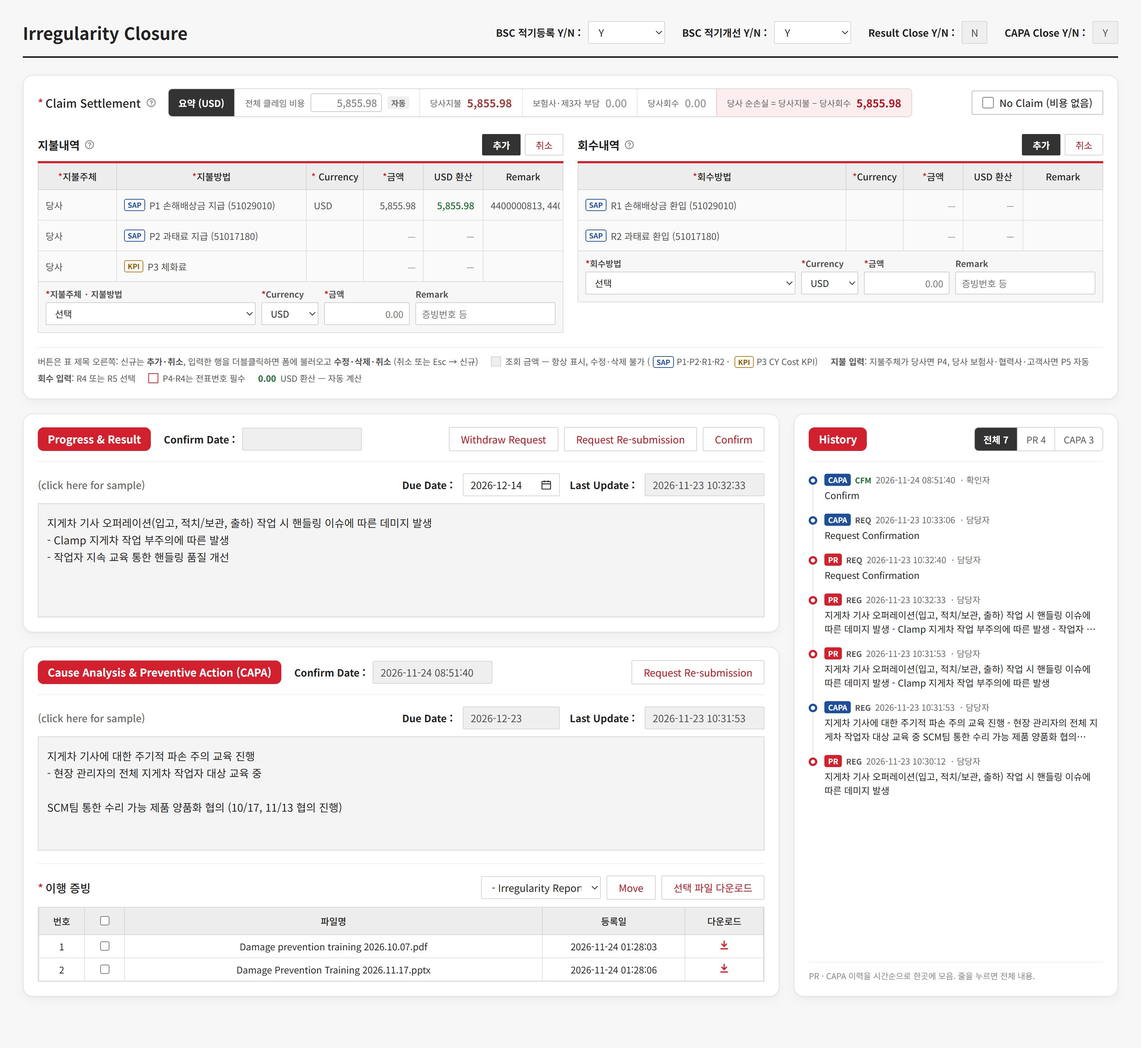
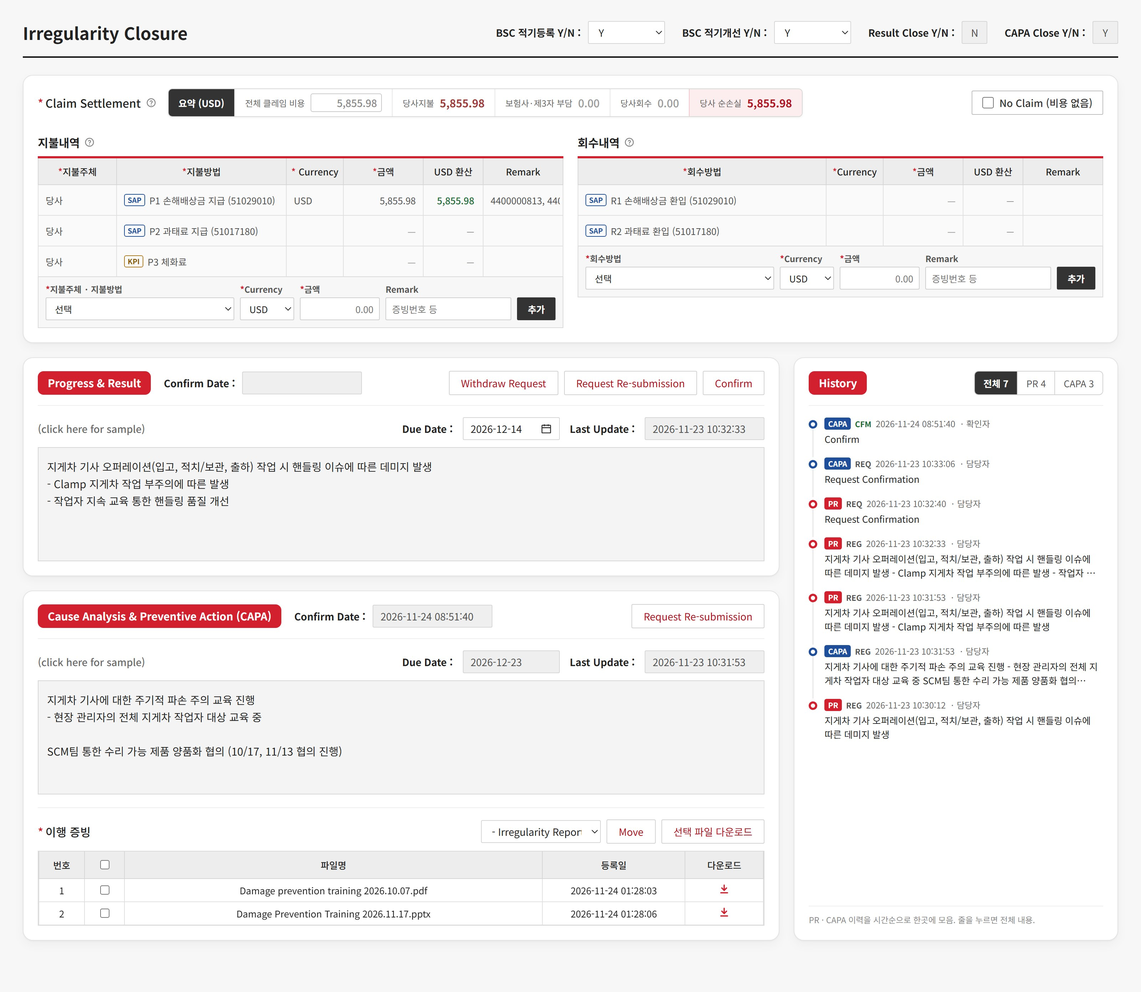
QMS sidebar mockup: CS entry UX cleanup (buttons in form row, Enter/Esc, no legend)

diff --git a/share/qms-claim-closure-sidebar.html b/share/qms-claim-closure-sidebar.html
@@ -127,15 +127,18 @@ a{color:#B3121F}a:hover{color:#7E0C16}
 .csw .grid .rocell{border:0;background:none;height:28px;padding:0 6px}
 .cform{margin-top:-1px;background:#F7F7F7;border:1px solid #DADADA;padding:8px 10px 10px}
 .cf-g{display:grid;gap:6px 8px;align-items:end}
-.cf-g.pay{grid-template-columns:minmax(0,1.5fr) 80px 120px minmax(0,1fr)}
-.cf-g.rec{grid-template-columns:minmax(0,1.5fr) 80px 120px minmax(0,1fr)}
+.cf-g.pay{grid-template-columns:minmax(0,1.5fr) 76px 112px minmax(0,1fr) auto}
+.cf-g.rec{grid-template-columns:minmax(0,1.5fr) 76px 112px minmax(0,1fr) auto}
+.csw table[data-k="pay"] col:nth-child(4),.csw table[data-k="rec"] col:nth-child(3){width:112px !important}
+.cform.editing{background:#FDF1F2;border-color:#EBB5BB}
+.grid tr.ur.flash td{animation:urflash 1.4s ease-out}@keyframes urflash{from{background:#FFF0B3}to{background:#fff}}
 .cf{display:flex;flex-direction:column;gap:3px;min-width:0;font-size:12px;font-weight:700;color:#555}
 .cf select,.cf input{height:32px;width:100%;border:1px solid #CFCFCF;border-radius:2px;background:#fff;font:inherit;font-size:13px;font-weight:400;color:#222;padding:0 8px;box-sizing:border-box}
 .cf input[data-f="amt"]{text-align:right;font-variant-numeric:tabular-nums}
 .cf input.need{border-color:#D3202F}
 .cf .bad{outline:2px solid #D3202F;outline-offset:-1px}
 .cf-b{display:flex;gap:6px}
-.cf-b .btn{height:30px;padding:0 14px;font-size:13px}
+.cf-b .btn{height:32px;padding:0 14px;font-size:13px}
 .cf-b .btn[hidden]{display:none}
 .btn.dark{background:#333;border-color:#333;color:#fff;font-weight:700}
 .cf-err{margin:6px 0 0;font-size:12px;color:#B3121F}
@@ -144,14 +147,14 @@ a{color:#B3121F}a:hover{color:#7E0C16}
 .grid tr.ur{cursor:pointer;user-select:none}.grid tr.ur:hover td{background:#FFF7F7}
 .grid tr.ur.sel td{background:#FDECEE}.grid tr.ur.sel td:first-child{box-shadow:inset 3px 0 0 #D3202F}
 .grid tr.ur:focus-visible{outline:2px solid #1F4E9A;outline-offset:-2px}
-@media (max-width:640px){.cf-g.pay,.cf-g.rec{grid-template-columns:minmax(0,1fr) minmax(0,1fr)}}
+@media (max-width:640px){.cf-g.pay,.cf-g.rec{grid-template-columns:minmax(0,1fr) minmax(0,1fr)}.cf-b{grid-column:1 / -1;justify-content:flex-end}}
 @media (max-width:1100px){.sbl,.flow.r64 .sbl{grid-template-columns:minmax(0,1fr)}.tl{flex:none;height:auto;min-height:0;max-height:420px}}
 
 </style>
 </head>
 <body>
 <div class="lab-bar"><b>QMS 사고 비용 정산 설계안</b><span>배치 검토용 목업 · 이력 필터만 동작</span><a href="/share/qms-claim">데이터 설계</a><a href="/share/qms-claim-screens">입력 화면 시안</a><a href="/share/qms-claim-closure">Closure 화면 개선안</a><a href="/share/qms-claim-closure-layout">좌우 배치안</a><a href="/share/qms-claim-closure-sidebar" aria-current="page">이력 사이드바안</a><a href="/share/qms-claim-closure-options">배치 제안</a><a href="#en" lang="en">English</a></div>
-<div class="part"><h2 class="big">이력 사이드바안 — 배치 제안 C</h2><p><b>사이드바 레이아웃</b>: 왼쪽 본문은 PR → CAPA → 이행 증빙, 오른쪽 사이드바는 PR · CAPA 이력을 시간순으로 모은 통합 이력 (PR / CAPA 필터). 구역마다 둥근 상자로 나누고, 본문 : 이력 폭은 7 : 3 (6 : 4로 바꿔 볼 수 있음). 이력 상자는 본문 높이에 맞춰 늘어나고 넘치면 안에서 스크롤. 입력 칸과 이력이 나란히 있지 않으니 높이를 맞출 필요가 없고, 이행 증빙이 늘어도 구조가 깨지지 않습니다. <b>Claim Settlement는 전체 폭</b>으로 빼서 지불·회수 표를 한 줄에 놓고, 맨 아래(기본)와 맨 위 중 골라 볼 수 있습니다. <b>지불·회수 표는 조회 전용</b>(USD 환산은 표에서 자동 계산)이고, 표 바로 아래 한 줄 입력폼으로 입력하고, 버튼은 표 제목 오른쪽에 둡니다. 신규일 때는 추가·취소, 입력한 행을 더블클릭하면 폼에 불러오고 수정·삭제·취소로 바뀝니다 (취소 또는 Esc → 신규). 지불방법은 지불주체로 정해지므로(당사 P4, 그 밖 P5) 따로 고르지 않고 목록에 함께 보여 줍니다. 요약 금액은 예시 환율로 다시 계산됩니다.</p>
+<div class="part"><h2 class="big">이력 사이드바안 — 배치 제안 C</h2><p><b>사이드바 레이아웃</b>: 왼쪽 본문은 PR → CAPA → 이행 증빙, 오른쪽 사이드바는 PR · CAPA 이력을 시간순으로 모은 통합 이력 (PR / CAPA 필터). 구역마다 둥근 상자로 나누고, 본문 : 이력 폭은 7 : 3 (6 : 4로 바꿔 볼 수 있음). 이력 상자는 본문 높이에 맞춰 늘어나고 넘치면 안에서 스크롤. 입력 칸과 이력이 나란히 있지 않으니 높이를 맞출 필요가 없고, 이행 증빙이 늘어도 구조가 깨지지 않습니다. <b>Claim Settlement는 전체 폭</b>으로 빼서 지불·회수 표를 한 줄에 놓고, 맨 아래(기본)와 맨 위 중 골라 볼 수 있습니다. <b>지불·회수 표는 조회 전용</b>(USD 환산은 표에서 자동 계산)이고, 표 바로 아래 한 줄 입력칸에 입력하고 줄 끝의 추가(또는 Enter)로 넣습니다. 입력한 행을 더블클릭하면 입력칸에 불러오고, 입력칸이 분홍으로 바뀌며 버튼이 수정·삭제·취소로 바뀝니다 (취소 또는 Esc → 신규). 취소는 지울 내용이 있을 때만 나옵니다. 아래 비고는 없애고 규칙은 ? 툴팁과 입력칸 안내로 옮겼습니다. 지불방법은 지불주체로 정해지므로(당사 P4, 그 밖 P5) 따로 고르지 않고 목록에 함께 보여 줍니다. 요약 금액은 예시 환율로 다시 계산됩니다.</p>
 <div class="pos" role="group" aria-label="본문과 이력 비율" data-cls="r64"><span>본문 : 이력</span><span class="segb"><button type="button" data-on="0" aria-pressed="true">7 : 3</button><button type="button" data-on="1" aria-pressed="false">6 : 4</button></span></div><div class="pos" role="group" aria-label="Claim Settlement 위치" data-cls="cs-top"><span>Claim Settlement 위치</span><span class="segb"><button type="button" data-pos="bottom" data-on="0" aria-pressed="true">맨 아래</button><button type="button" data-pos="top" data-on="1" aria-pressed="false">맨 위</button></span></div>
 <div class="dl"><a href="/share/files/qms-claim-closure-sidebar.jpg" download><svg width="14" height="14" viewBox="0 0 24 24" fill="none" stroke="currentColor" stroke-width="2" aria-hidden="true"><path d="M12 3v12m0 0-5-5m5 5 5-5M4 19h16"/></svg>JPG (맨 아래)</a><a href="/share/files/qms-claim-closure-sidebar-top.jpg" download><svg width="14" height="14" viewBox="0 0 24 24" fill="none" stroke="currentColor" stroke-width="2" aria-hidden="true"><path d="M12 3v12m0 0-5-5m5 5 5-5M4 19h16"/></svg>JPG (맨 위)</a><a href="/share/files/qms-claim-closure-sidebar-64.jpg" download><svg width="14" height="14" viewBox="0 0 24 24" fill="none" stroke="currentColor" stroke-width="2" aria-hidden="true"><path d="M12 3v12m0 0-5-5m5 5 5-5M4 19h16"/></svg>JPG (6 : 4)</a></div></div>
 <div style="box-sizing: border-box; width: 100%; max-width: 1600px; margin: 0 auto; padding: 28px 32px 56px; font-family: 'Noto Sans KR', 'Malgun Gothic', sans-serif; color: #222; background: #F7F7F7;">
@@ -235,11 +238,11 @@ SCM팀 통한 수리 가능 제품 양품화 협의 (10/17, 11/13 협의 진행)
 <div role="group" aria-label="요약 (USD)" style="display: flex; flex-wrap: wrap; align-items: stretch; background: #fff; border: 1px solid #D8D8D8; border-radius: 6px; overflow: hidden; min-height: 36px; box-sizing: border-box; box-shadow: 0 1px 3px rgba(0,0,0,0.06);">
 <div style="display: flex; align-items: center; gap: 8px; padding: 0 14px; background: #333; color: #fff; font-size: 13px; font-weight: 700; white-space: nowrap;">
 요약 (USD)</div>
-<div class="sum tot"><span class="k">전체 클레임 비용</span><input class="totin isauto" inputmode="decimal" value="5,855.98" placeholder="입력" aria-label="전체 클레임 비용 (USD)"><span class="totauto" title="미입력 → 당사지불 + 보험사·제3자 부담">자동</span></div>
+<div class="sum tot"><span class="k">전체 클레임 비용</span><input class="totin isauto" inputmode="decimal" value="5,855.98" placeholder="입력" aria-label="전체 클레임 비용 (USD)"></div>
 <div class="sum"><span class="k">당사지불</span><span class="v pay">5,855.98</span></div>
 <div class="sum"><span class="k">보험사·제3자 부담</span><span class="v neu zero">0.00</span></div>
 <div class="sum"><span class="k">당사회수</span><span class="v rec zero">0.00</span></div>
-<div class="sum loss"><span class="k">당사 순손실 = 당사지불 − 당사회수</span><span class="v">5,855.98</span></div>
+<div class="sum loss"><span class="k">당사 순손실</span><span class="v">5,855.98</span></div>
 </div>
 <div style="margin-left: auto; display: flex; align-items: center; gap: 8px;">
 
@@ -252,9 +255,11 @@ SCM팀 통한 수리 가능 제품 양품화 협의 (10/17, 11/13 협의 진행)
 <div style="display: flex; align-items: center; justify-content: space-between; gap: 12px; margin-bottom: 8px;">
 <div style="min-width: 0; display: flex; flex-wrap: wrap; align-items: center; gap: 2px 6px;">
 <h2 style="margin: 0; font-size: 16px; font-weight: 700; display: flex; align-items: center; gap: 8px;">지불내역</h2>
-<span class="qtip" tabindex="0" aria-label="지불내역 안내"><svg width="15" height="15" viewBox="0 0 24 24" fill="none" stroke="#8A8A8A" stroke-width="2" stroke-linecap="round" aria-hidden="true"><circle cx="12" cy="12" r="9"></circle><path d="M9.6 9.3a2.5 2.5 0 0 1 4.8 1c0 1.7-2.4 2.1-2.4 3.7"></path><path d="M12 17.2v.3"></path></svg><span class="tipbox" role="tooltip">P1·P2는 SAP, P3는 CY Cost KPI에서 조회한 금액만 보여 줍니다. 그 밖의 지불은 + 로 추가합니다.</span></span>
+<span class="qtip" tabindex="0" aria-label="지불내역 안내"><svg width="15" height="15" viewBox="0 0 24 24" fill="none" stroke="#8A8A8A" stroke-width="2" stroke-linecap="round" aria-hidden="true"><circle cx="12" cy="12" r="9"></circle><path d="M9.6 9.3a2.5 2.5 0 0 1 4.8 1c0 1.7-2.4 2.1-2.4 3.7"></path><path d="M12 17.2v.3"></path></svg><span class="tipbox" role="tooltip">P1·P2(SAP), P3(CY Cost KPI)는 조회 금액이라 고칠 수 없습니다. 그 밖의 지불은 표 아래 칸에 입력해 추가하고, 입력한 행은 더블클릭해서 고칩니다. 지불주체가 당사면 P4(전표번호 필수), 그 밖은 P5.</span></span>
 </div>
-<div class="cf-b" data-k="pay" role="group" aria-label="지불 입력"><button class="btn dark cf-add" type="button">추가</button><button class="btn dark cf-upd" type="button" hidden>수정</button><button class="btn cf-del" type="button" hidden>삭제</button><button class="btn cf-cancel" type="button">취소</button></div>
+<div style="display: flex; align-items: center; gap: 6px; flex: none;">
+
+</div>
 </div>
 <div style="overflow-x: auto;">
 <table class="grid" data-k="pay">
@@ -295,16 +300,17 @@ SCM팀 통한 수리 가능 제품 양품화 협의 (10/17, 11/13 협의 진행)
 </tbody>
 </table>
 </div>
-<div class="cform" data-k="pay" role="group" aria-label="지불 입력"><div class="cf-g pay"><label class="cf"><span><span class="req">*</span>지불주체 · 지불방법</span><select data-f="party"><option value="">선택</option><option value="LXP">당사 — P4 Selling / Buying</option><option value="INS">당사 보험사 — P5 보험사·제3자 지불</option><option value="VEN">협력사 — P5 보험사·제3자 지불</option><option value="CUS">고객사 — P5 보험사·제3자 지불</option></select></label><label class="cf"><span><span class="req">*</span>Currency</span><select data-f="cur"><option>USD</option><option>KRW</option><option>EUR</option></select></label><label class="cf"><span><span class="req">*</span>금액</span><input data-f="amt" inputmode="decimal" placeholder="0.00"></label><label class="cf"><span>Remark</span><input data-f="remark" placeholder="증빙번호 등"></label></div><p class="cf-err" role="alert" hidden></p></div>
+<div class="cform" data-k="pay" role="group" aria-label="지불 입력"><div class="cf-g pay"><label class="cf"><span><span class="req">*</span>지불주체 · 지불방법</span><select data-f="party"><option value="">선택</option><option value="LXP">당사 — P4 Selling / Buying</option><option value="INS">당사 보험사 — P5 보험사·제3자 지불</option><option value="VEN">협력사 — P5 보험사·제3자 지불</option><option value="CUS">고객사 — P5 보험사·제3자 지불</option></select></label><label class="cf"><span><span class="req">*</span>Currency</span><select data-f="cur"><option>USD</option><option>KRW</option><option>EUR</option></select></label><label class="cf"><span><span class="req">*</span>금액</span><input data-f="amt" inputmode="decimal" placeholder="0.00"></label><label class="cf"><span>Remark</span><input data-f="remark" placeholder="증빙번호 등"></label><div class="cf-b" data-k="pay" role="group" aria-label="지불 입력"><button class="btn dark cf-add" type="button">추가</button><button class="btn dark cf-upd" type="button" hidden>수정</button><button class="btn cf-del" type="button" hidden>삭제</button><button class="btn cf-cancel" type="button">취소</button></div></div><p class="cf-err" role="alert" hidden></p></div>
 </div>
 
 <div style="min-width: 0;">
 <div style="display: flex; align-items: center; justify-content: space-between; gap: 12px; margin-bottom: 8px;">
 <div style="min-width: 0; display: flex; flex-wrap: wrap; align-items: center; gap: 2px 6px;">
 <h2 style="margin: 0; font-size: 16px; font-weight: 700; display: flex; align-items: center; gap: 8px;">회수내역</h2>
-<span class="qtip" tabindex="0" aria-label="회수내역 안내"><svg width="15" height="15" viewBox="0 0 24 24" fill="none" stroke="#8A8A8A" stroke-width="2" stroke-linecap="round" aria-hidden="true"><circle cx="12" cy="12" r="9"></circle><path d="M9.6 9.3a2.5 2.5 0 0 1 4.8 1c0 1.7-2.4 2.1-2.4 3.7"></path><path d="M12 17.2v.3"></path></svg><span class="tipbox" role="tooltip">R1·R2는 SAP에서 조회한 금액만 보여 줍니다. 그 밖의 회수는 + 로 추가합니다 (R4 · R5).</span></span>
+<span class="qtip" tabindex="0" aria-label="회수내역 안내"><svg width="15" height="15" viewBox="0 0 24 24" fill="none" stroke="#8A8A8A" stroke-width="2" stroke-linecap="round" aria-hidden="true"><circle cx="12" cy="12" r="9"></circle><path d="M9.6 9.3a2.5 2.5 0 0 1 4.8 1c0 1.7-2.4 2.1-2.4 3.7"></path><path d="M12 17.2v.3"></path></svg><span class="tipbox" role="tooltip">R1·R2(SAP)는 조회 금액이라 고칠 수 없습니다. 그 밖의 회수(R4 · R5)는 표 아래 칸에 입력해 추가하고, 입력한 행은 더블클릭해서 고칩니다. R4는 전표번호 필수.</span></span>
 </div>
-<div class="cf-b" data-k="rec" role="group" aria-label="회수 입력"><button class="btn dark cf-add" type="button">추가</button><button class="btn dark cf-upd" type="button" hidden>수정</button><button class="btn cf-del" type="button" hidden>삭제</button><button class="btn cf-cancel" type="button">취소</button></div>
+<div style="display: flex; align-items: center; gap: 6px; flex: none;">
+</div>
 </div>
 <div style="overflow-x: auto;">
 <table class="grid" data-k="rec">
@@ -334,17 +340,9 @@ SCM팀 통한 수리 가능 제품 양품화 협의 (10/17, 11/13 협의 진행)
 </tbody>
 </table>
 </div>
-<div class="cform" data-k="rec" role="group" aria-label="회수 입력"><div class="cf-g rec"><label class="cf"><span><span class="req">*</span>회수방법</span><select data-f="type"><option value="">선택</option><option value="R4">R4 Selling / Buying</option><option value="R5">R5 기타</option></select></label><label class="cf"><span><span class="req">*</span>Currency</span><select data-f="cur"><option>USD</option><option>KRW</option><option>EUR</option></select></label><label class="cf"><span><span class="req">*</span>금액</span><input data-f="amt" inputmode="decimal" placeholder="0.00"></label><label class="cf"><span>Remark</span><input data-f="remark" placeholder="증빙번호 등"></label></div><p class="cf-err" role="alert" hidden></p></div>
+<div class="cform" data-k="rec" role="group" aria-label="회수 입력"><div class="cf-g rec"><label class="cf"><span><span class="req">*</span>회수방법</span><select data-f="type"><option value="">선택</option><option value="R4">R4 Selling / Buying</option><option value="R5">R5 기타</option></select></label><label class="cf"><span><span class="req">*</span>Currency</span><select data-f="cur"><option>USD</option><option>KRW</option><option>EUR</option></select></label><label class="cf"><span><span class="req">*</span>금액</span><input data-f="amt" inputmode="decimal" placeholder="0.00"></label><label class="cf"><span>Remark</span><input data-f="remark" placeholder="증빙번호 등"></label><div class="cf-b" data-k="rec" role="group" aria-label="회수 입력"><button class="btn dark cf-add" type="button">추가</button><button class="btn dark cf-upd" type="button" hidden>수정</button><button class="btn cf-del" type="button" hidden>삭제</button><button class="btn cf-cancel" type="button">취소</button></div></div><p class="cf-err" role="alert" hidden></p></div>
 </div>
 
-<div class="legend" style="grid-column: 1 / -1; margin-top: 0; padding-top: 10px; border-top: 1px solid #EEEEEE;">
-<span>버튼은 표 제목 오른쪽: 신규는 <b>추가·취소</b>, 입력한 행을 더블클릭하면 폼에 불러오고 <b>수정·삭제·취소</b> (취소 또는 Esc → 신규)</span>
-<span><span class="sw" style="background: #EFEFEF;"></span>조회 금액 — 항상 표시, 수정·삭제 불가 (<span class="chip" style="margin: 0 4px;">SAP</span>P1·P2·R1·R2 · <span class="chip cy" style="margin: 0 4px;">KPI</span>P3 CY Cost KPI)</span>
-<span><b>지불 입력</b>: 지불주체가 당사면 P4, 당사 보험사·협력사·고객사면 P5 자동</span>
-<span><b>회수 입력</b>: R4 또는 R5 선택</span>
-<span><span class="sw" style="background: #fff; border-color: #D3202F;"></span>P4·R4는 전표번호 필수</span>
-<span><span style="color: #1E6B34; font-weight: 700; margin-right: 6px;">0.00</span>USD 환산 — 자동 계산</span>
-</div>
 </div>
 </section></div>
 </div>
@@ -431,11 +429,11 @@ Discussing repair of salvageable goods with the SCM team (meetings held 10/17, 1
 <div role="group" aria-label="Summary (USD)" style="display: flex; flex-wrap: wrap; align-items: stretch; background: #fff; border: 1px solid #D8D8D8; border-radius: 6px; overflow: hidden; min-height: 36px; box-sizing: border-box; box-shadow: 0 1px 3px rgba(0,0,0,0.06);">
 <div style="display: flex; align-items: center; gap: 8px; padding: 0 14px; background: #333; color: #fff; font-size: 13px; font-weight: 700; white-space: nowrap;">
 Summary (USD)</div>
-<div class="sum tot"><span class="k">Total claim cost</span><input class="totin isauto" inputmode="decimal" value="5,855.98" placeholder="Enter" aria-label="Total claim cost (USD)"><span class="totauto" title="Not entered → LXP paid + insurer / 3rd party">Auto</span></div>
+<div class="sum tot"><span class="k">Total claim cost</span><input class="totin isauto" inputmode="decimal" value="5,855.98" placeholder="Enter" aria-label="Total claim cost (USD)"></div>
 <div class="sum"><span class="k">LXP paid</span><span class="v pay">5,855.98</span></div>
 <div class="sum"><span class="k">Insurer / 3rd party</span><span class="v neu zero">0.00</span></div>
 <div class="sum"><span class="k">LXP recovered</span><span class="v rec zero">0.00</span></div>
-<div class="sum loss"><span class="k">LXP net loss (paid − recovered)</span><span class="v">5,855.98</span></div>
+<div class="sum loss"><span class="k">LXP net loss</span><span class="v">5,855.98</span></div>
 </div>
 <div style="margin-left: auto; display: flex; align-items: center; gap: 8px;">
 
@@ -448,9 +446,11 @@ Summary (USD)</div>
 <div style="display: flex; align-items: center; justify-content: space-between; gap: 12px; margin-bottom: 8px;">
 <div style="min-width: 0; display: flex; flex-wrap: wrap; align-items: center; gap: 2px 6px;">
 <h2 style="margin: 0; font-size: 16px; font-weight: 700; display: flex; align-items: center; gap: 8px;">Payments</h2>
-<span class="qtip" tabindex="0" aria-label="About payments"><svg width="15" height="15" viewBox="0 0 24 24" fill="none" stroke="#8A8A8A" stroke-width="2" stroke-linecap="round" aria-hidden="true"><circle cx="12" cy="12" r="9"></circle><path d="M9.6 9.3a2.5 2.5 0 0 1 4.8 1c0 1.7-2.4 2.1-2.4 3.7"></path><path d="M12 17.2v.3"></path></svg><span class="tipbox" role="tooltip">P1·P2 show SAP amounts and P3 shows the CY Cost KPI amount only. Add other payments with +.</span></span>
+<span class="qtip" tabindex="0" aria-label="About payments"><svg width="15" height="15" viewBox="0 0 24 24" fill="none" stroke="#8A8A8A" stroke-width="2" stroke-linecap="round" aria-hidden="true"><circle cx="12" cy="12" r="9"></circle><path d="M9.6 9.3a2.5 2.5 0 0 1 4.8 1c0 1.7-2.4 2.1-2.4 3.7"></path><path d="M12 17.2v.3"></path></svg><span class="tipbox" role="tooltip">P1·P2 (SAP) and P3 (CY Cost KPI) are looked-up amounts and cannot be edited. Enter other payments in the row under the table; double-click an entered row to edit it. Paid by LXP → P4 (voucher no. required), others → P5.</span></span>
 </div>
-<div class="cf-b" data-k="pay" role="group" aria-label="Payment entry"><button class="btn dark cf-add" type="button">Add</button><button class="btn dark cf-upd" type="button" hidden>Update</button><button class="btn cf-del" type="button" hidden>Delete</button><button class="btn cf-cancel" type="button">Cancel</button></div>
+<div style="display: flex; align-items: center; gap: 6px; flex: none;">
+
+</div>
 </div>
 <div style="overflow-x: auto;">
 <table class="grid" data-k="pay">
@@ -491,16 +491,17 @@ Summary (USD)</div>
 </tbody>
 </table>
 </div>
-<div class="cform" data-k="pay" role="group" aria-label="Payment entry"><div class="cf-g pay"><label class="cf"><span><span class="req">*</span>Paid by · Payment type</span><select data-f="party"><option value="">Select</option><option value="LXP">LXP — P4 Selling / Buying</option><option value="INS">LXP insurer — P5 Paid by insurer / 3rd party</option><option value="VEN">Vendor — P5 Paid by insurer / 3rd party</option><option value="CUS">Customer — P5 Paid by insurer / 3rd party</option></select></label><label class="cf"><span><span class="req">*</span>Currency</span><select data-f="cur"><option>USD</option><option>KRW</option><option>EUR</option></select></label><label class="cf"><span><span class="req">*</span>Amount</span><input data-f="amt" inputmode="decimal" placeholder="0.00"></label><label class="cf"><span>Remark</span><input data-f="remark" placeholder="Evidence no."></label></div><p class="cf-err" role="alert" hidden></p></div>
+<div class="cform" data-k="pay" role="group" aria-label="Payment entry"><div class="cf-g pay"><label class="cf"><span><span class="req">*</span>Paid by · Payment type</span><select data-f="party"><option value="">Select</option><option value="LXP">LXP — P4 Selling / Buying</option><option value="INS">LXP insurer — P5 Paid by insurer / 3rd party</option><option value="VEN">Vendor — P5 Paid by insurer / 3rd party</option><option value="CUS">Customer — P5 Paid by insurer / 3rd party</option></select></label><label class="cf"><span><span class="req">*</span>Currency</span><select data-f="cur"><option>USD</option><option>KRW</option><option>EUR</option></select></label><label class="cf"><span><span class="req">*</span>Amount</span><input data-f="amt" inputmode="decimal" placeholder="0.00"></label><label class="cf"><span>Remark</span><input data-f="remark" placeholder="Evidence no."></label><div class="cf-b" data-k="pay" role="group" aria-label="Payment entry"><button class="btn dark cf-add" type="button">Add</button><button class="btn dark cf-upd" type="button" hidden>Update</button><button class="btn cf-del" type="button" hidden>Delete</button><button class="btn cf-cancel" type="button">Cancel</button></div></div><p class="cf-err" role="alert" hidden></p></div>
 </div>
 
 <div style="min-width: 0;">
 <div style="display: flex; align-items: center; justify-content: space-between; gap: 12px; margin-bottom: 8px;">
 <div style="min-width: 0; display: flex; flex-wrap: wrap; align-items: center; gap: 2px 6px;">
 <h2 style="margin: 0; font-size: 16px; font-weight: 700; display: flex; align-items: center; gap: 8px;">Recoveries</h2>
-<span class="qtip" tabindex="0" aria-label="About recoveries"><svg width="15" height="15" viewBox="0 0 24 24" fill="none" stroke="#8A8A8A" stroke-width="2" stroke-linecap="round" aria-hidden="true"><circle cx="12" cy="12" r="9"></circle><path d="M9.6 9.3a2.5 2.5 0 0 1 4.8 1c0 1.7-2.4 2.1-2.4 3.7"></path><path d="M12 17.2v.3"></path></svg><span class="tipbox" role="tooltip">R1–R2 show SAP amounts only. Add other recoveries with + (R4 · R5).</span></span>
+<span class="qtip" tabindex="0" aria-label="About recoveries"><svg width="15" height="15" viewBox="0 0 24 24" fill="none" stroke="#8A8A8A" stroke-width="2" stroke-linecap="round" aria-hidden="true"><circle cx="12" cy="12" r="9"></circle><path d="M9.6 9.3a2.5 2.5 0 0 1 4.8 1c0 1.7-2.4 2.1-2.4 3.7"></path><path d="M12 17.2v.3"></path></svg><span class="tipbox" role="tooltip">R1·R2 (SAP) are looked-up amounts and cannot be edited. Enter other recoveries (R4 · R5) in the row under the table; double-click an entered row to edit it. R4 needs a voucher no.</span></span>
 </div>
-<div class="cf-b" data-k="rec" role="group" aria-label="Recovery entry"><button class="btn dark cf-add" type="button">Add</button><button class="btn dark cf-upd" type="button" hidden>Update</button><button class="btn cf-del" type="button" hidden>Delete</button><button class="btn cf-cancel" type="button">Cancel</button></div>
+<div style="display: flex; align-items: center; gap: 6px; flex: none;">
+</div>
 </div>
 <div style="overflow-x: auto;">
 <table class="grid" data-k="rec">
@@ -530,17 +531,9 @@ Summary (USD)</div>
 </tbody>
 </table>
 </div>
-<div class="cform" data-k="rec" role="group" aria-label="Recovery entry"><div class="cf-g rec"><label class="cf"><span><span class="req">*</span>Recovery type</span><select data-f="type"><option value="">Select</option><option value="R4">R4 Selling / Buying</option><option value="R5">R5 Other</option></select></label><label class="cf"><span><span class="req">*</span>Currency</span><select data-f="cur"><option>USD</option><option>KRW</option><option>EUR</option></select></label><label class="cf"><span><span class="req">*</span>Amount</span><input data-f="amt" inputmode="decimal" placeholder="0.00"></label><label class="cf"><span>Remark</span><input data-f="remark" placeholder="Evidence no."></label></div><p class="cf-err" role="alert" hidden></p></div>
+<div class="cform" data-k="rec" role="group" aria-label="Recovery entry"><div class="cf-g rec"><label class="cf"><span><span class="req">*</span>Recovery type</span><select data-f="type"><option value="">Select</option><option value="R4">R4 Selling / Buying</option><option value="R5">R5 Other</option></select></label><label class="cf"><span><span class="req">*</span>Currency</span><select data-f="cur"><option>USD</option><option>KRW</option><option>EUR</option></select></label><label class="cf"><span><span class="req">*</span>Amount</span><input data-f="amt" inputmode="decimal" placeholder="0.00"></label><label class="cf"><span>Remark</span><input data-f="remark" placeholder="Evidence no."></label><div class="cf-b" data-k="rec" role="group" aria-label="Recovery entry"><button class="btn dark cf-add" type="button">Add</button><button class="btn dark cf-upd" type="button" hidden>Update</button><button class="btn cf-del" type="button" hidden>Delete</button><button class="btn cf-cancel" type="button">Cancel</button></div></div><p class="cf-err" role="alert" hidden></p></div>
 </div>
 
-<div class="legend" style="grid-column: 1 / -1; margin-top: 0; padding-top: 10px; border-top: 1px solid #EEEEEE;">
-<span>Buttons sit right of the table title: new entry → <b>Add / Cancel</b>; double-click an entered row to load it → <b>Update / Delete / Cancel</b> (Cancel or Esc → new entry)</span>
-<span><span class="sw" style="background: #EFEFEF;"></span>Looked-up amounts — always shown, cannot edit or delete (<span class="chip" style="margin: 0 4px;">SAP</span>P1·P2·R1·R2 · <span class="chip cy" style="margin: 0 4px;">KPI</span>P3 CY Cost KPI)</span>
-<span><b>Payment entry</b>: Paid by LXP → P4; LXP insurer / vendor / customer → P5 (auto)</span>
-<span><b>Recovery entry</b>: choose R4 or R5</span>
-<span><span class="sw" style="background: #fff; border-color: #D3202F;"></span>Voucher no. required for P4 · R4</span>
-<span><span style="color: #1E6B34; font-weight: 700; margin-right: 6px;">0.00</span>In USD — auto-calculated</span>
-</div>
 </div>
 </section></div>
 </div>
@@ -562,10 +555,10 @@ Summary (USD)</div>
   var TX = {
     ko: { parties: { LXP: '당사', INS: '당사 보험사', VEN: '협력사', CUS: '고객사' },
           types: { P4: 'P4 Selling / Buying', P5: 'P5 보험사·제3자 지불', R4: 'R4 Selling / Buying', R5: 'R5 기타' },
-          err: '빨간 칸을 채우세요.', voucher: 'P4 · R4는 Remark에 전표번호가 필요합니다.', ph: '증빙번호 등', vph: '전표번호 (필수)' },
+          hint: '더블클릭하면 수정·삭제', err: '빨간 칸을 채우세요.', voucher: 'P4 · R4는 Remark에 전표번호가 필요합니다.', ph: '증빙번호 등', vph: '전표번호 (필수)' },
     en: { parties: { LXP: 'LXP', INS: 'LXP insurer', VEN: 'Vendor', CUS: 'Customer' },
           types: { P4: 'P4 Selling / Buying', P5: 'P5 Paid by insurer / 3rd party', R4: 'R4 Selling / Buying', R5: 'R5 Other' },
-          err: 'Fill in the red fields.', voucher: 'P4 · R4 need a voucher no. in Remark.', ph: 'Evidence no.', vph: 'Voucher no. (required)' }
+          hint: 'Double-click to edit or delete', err: 'Fill in the red fields.', voucher: 'P4 · R4 need a voucher no. in Remark.', ph: 'Evidence no.', vph: 'Voucher no. (required)' }
   };
   function fmt(n) { return Number(n).toLocaleString('en-US', { minimumFractionDigits: 2, maximumFractionDigits: 2 }); }
   function num(v) { var n = parseFloat(String(v).replace(/,/g, '')); return isFinite(n) && n > 0 ? n : null; }
@@ -594,9 +587,11 @@ Summary (USD)</div>
       function typeVal() { return party ? (party.value ? (party.value === 'LXP' ? 'P4' : 'P5') : '') : type.value; }
       function needV() { var t = typeVal(); return t === 'P4' || t === 'R4'; }
       function sync() { remark.placeholder = needV() ? L.vph : L.ph; remark.classList.toggle('need', needV()); }
-      function state() { add.hidden = !!sel; upd.hidden = del.hidden = !sel; }
+      function dirty() { return !!((party || type).value || cur.value !== 'USD' || amt.value || remark.value); }
+      function state() { add.hidden = !!sel; upd.hidden = del.hidden = !sel; cancel.hidden = !sel && !dirty(); f.classList.toggle('editing', !!sel); }
+      function flash(tr) { tr.classList.remove('flash'); void tr.offsetWidth; tr.classList.add('flash'); }
       function clear() { f.querySelectorAll('.bad').forEach(function (e) { e.classList.remove('bad'); }); err.hidden = true; }
-      function blank() { (party || type).value = ''; cur.value = 'USD'; amt.value = ''; remark.value = ''; clear(); sync(); }
+      function blank() { (party || type).value = ''; cur.value = 'USD'; amt.value = ''; remark.value = ''; clear(); sync(); state(); }
       function unselect() { if (sel) sel.classList.remove('sel'); sel = null; state(); }
       function read() {
         clear();
@@ -611,7 +606,7 @@ Summary (USD)</div>
         return { party: party ? party.value : '', type: t, cur: cur.value, amt: a, usd: a * FX[cur.value], remark: remark.value.trim() };
       }
       function fill(tr, r) {
-        tr.className = 'ur'; tr.tabIndex = 0;
+        tr.className = 'ur'; tr.tabIndex = 0; tr.title = L.hint;
         tr.innerHTML = (party ? '<td><div class="uc">' + esc(L.parties[r.party]) + '</div></td>' : '') +
           '<td><div class="uc">' + esc(L.types[r.type]) + '</div></td><td><div class="uc">' + r.cur + '</div></td>' +
           '<td><div class="uc num">' + fmt(r.amt) + '</div></td><td><div class="usd">' + fmt(r.usd) + '</div></td>' +
@@ -625,17 +620,20 @@ Summary (USD)</div>
         cur.value = tr.dataset.cur; amt.value = fmt(+tr.dataset.amt); remark.value = tr.dataset.remark;
         clear(); sync(); state();
       }
-      f.addEventListener('change', function (e) { e.target.classList.remove('bad'); sync(); });
-      f.addEventListener('input', function (e) { e.target.classList.remove('bad'); });
-      f.addEventListener('keydown', function (e) { if (e.key === 'Escape') { unselect(); blank(); } });
+      f.addEventListener('change', function (e) { e.target.classList.remove('bad'); sync(); state(); });
+      f.addEventListener('input', function (e) { e.target.classList.remove('bad'); state(); });
+      f.addEventListener('keydown', function (e) {
+        if (e.key === 'Escape') { unselect(); blank(); }
+        else if (e.key === 'Enter' && e.target.matches('input, select')) { e.preventDefault(); (sel ? upd : add).click(); }
+      });
       cancel.addEventListener('click', function () { unselect(); blank(); });
       add.addEventListener('click', function () {
         var r = read(); if (!r) return;
-        var tr = document.createElement('tr'); fill(tr, r); tb.appendChild(tr); blank(); recalc();
+        var tr = document.createElement('tr'); fill(tr, r); tb.appendChild(tr); blank(); recalc(); flash(tr); (party || type).focus();
       });
       upd.addEventListener('click', function () {
         if (!sel) return; var r = read(); if (!r) return;
-        fill(sel, r); sel = null; state(); blank(); recalc();
+        var tr = sel; fill(tr, r); sel = null; blank(); recalc(); flash(tr);
       });
       del.addEventListener('click', function () {
         if (!sel) return; sel.remove(); sel = null; state(); blank(); recalc();
